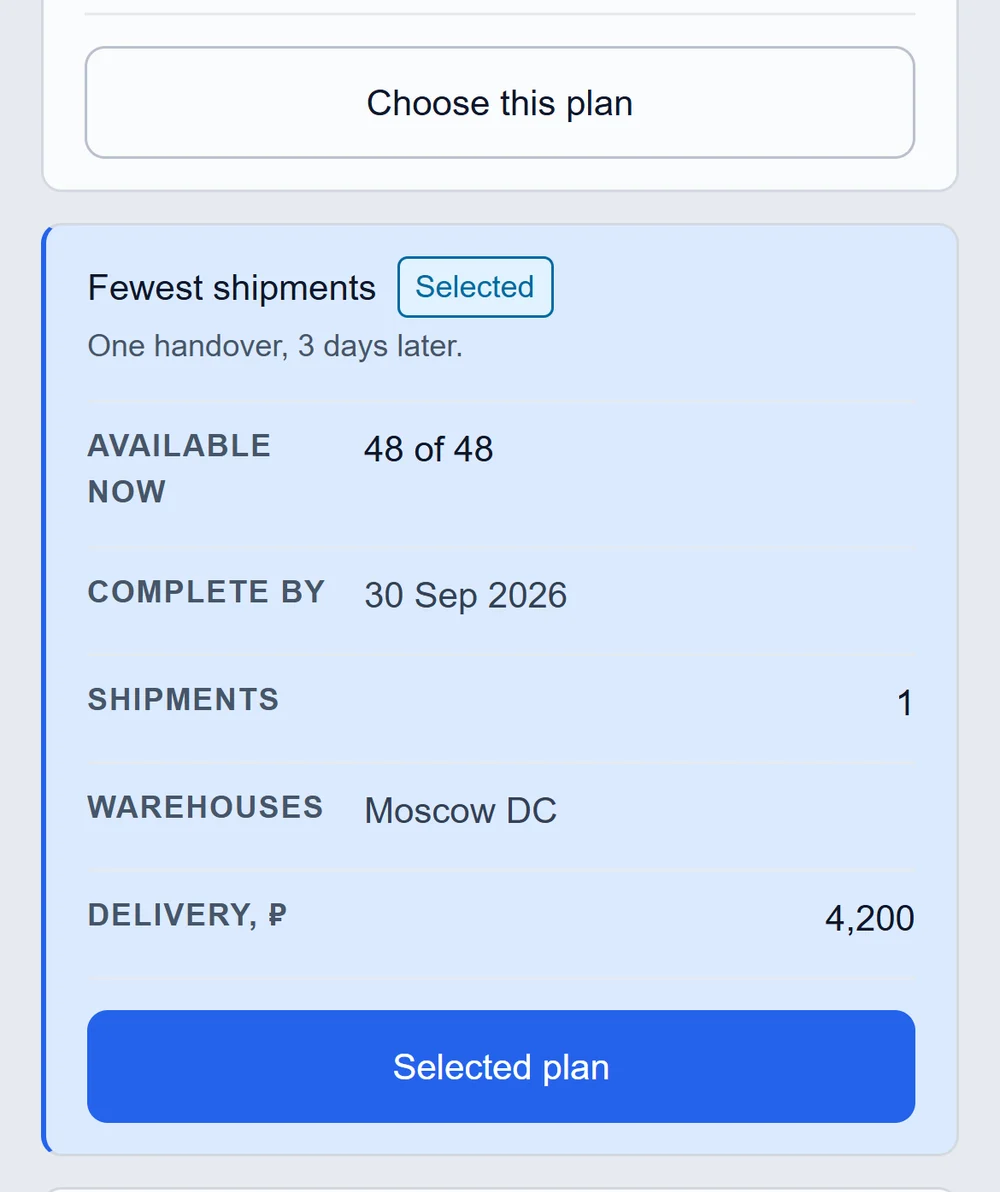
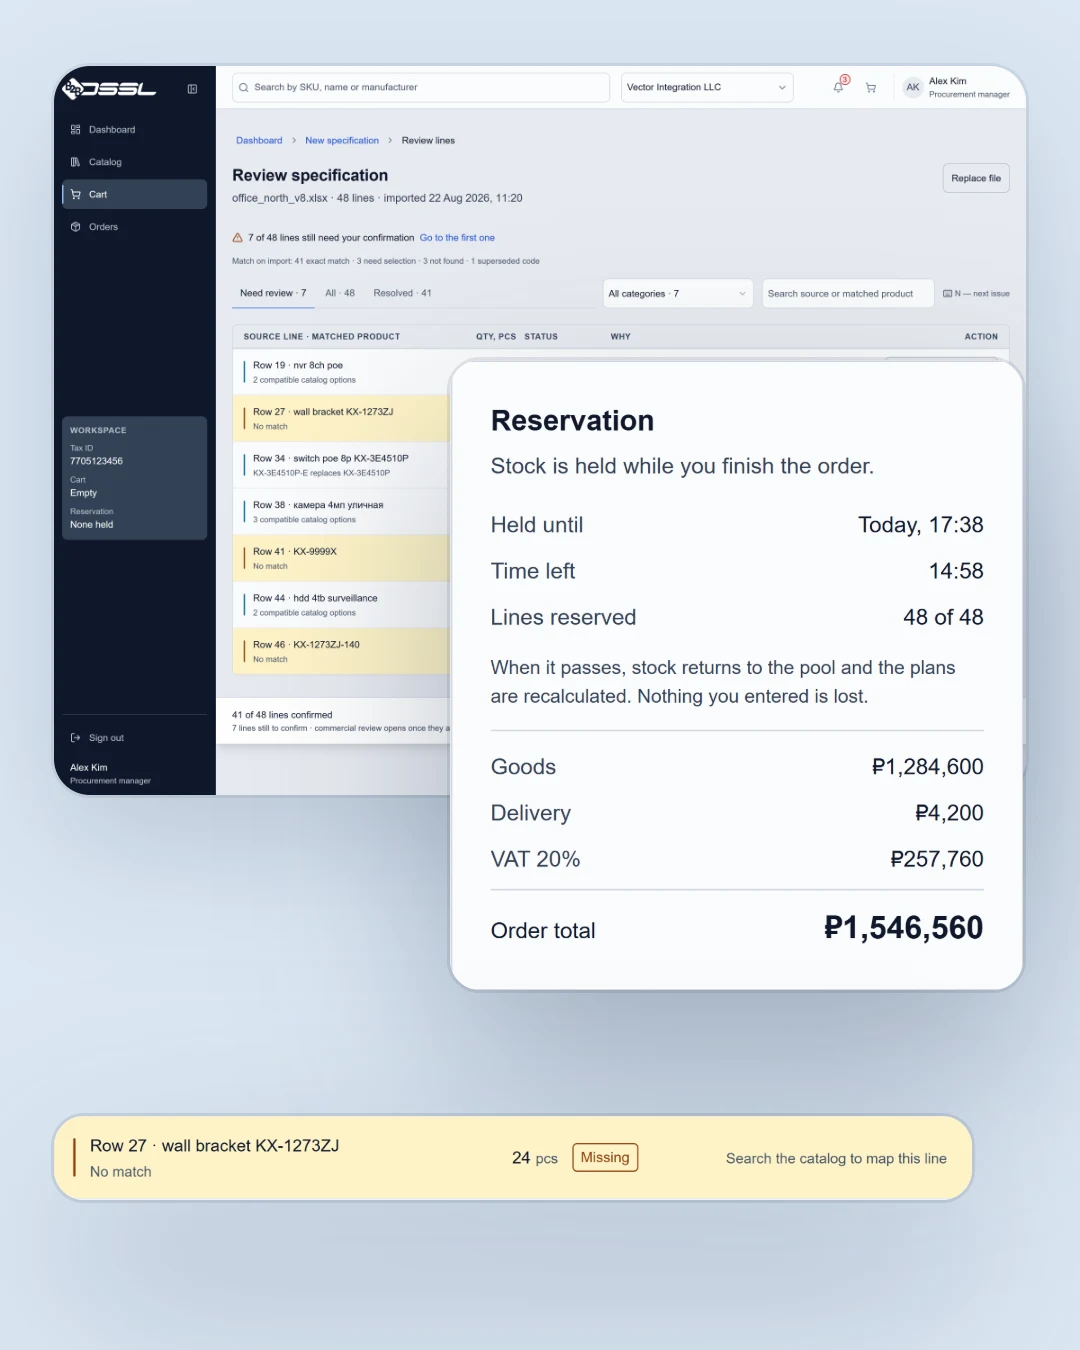
feat(home): featured covers show the product, with key elements lifted
The single-fragment covers read as dull: Agent Ops showed one card of text
and two buttons, nothing of the product or its scale. Each featured cover is
now the whole product screen as ground with one or two key elements lifted
over it at readable size: Agent Ops — total exposure and the top reason
cluster over the review queue; DSSL — the missing specification line and the
reservation total over the review; Learn — the learning path card and a task
resource over the field guide. Separate 4:5 composition on phones, EN and RU,
clips measured per locale so no text is cut.

Sources: scripts/shoot-cover-sources.mjs (3x). Composition:
scripts/build-home-covers.mjs. Replaces scripts/shoot-home-covers.mjs.

diff --git a/src/copy/case-visuals.ts b/src/copy/case-visuals.ts
@@ -7,6 +7,8 @@ export interface Artwork {
   mobile?: string;
   /** One product moment centred on the canvas, instead of a layered composition. */
   moment?: boolean;
+  /** A finished composition (scripts/build-home-covers.mjs) that fills the canvas. */
+  composed?: boolean;
   alt: string;
   caption?: string;
 }
@@ -101,13 +103,15 @@ export function getCaseVisuals(slug: string, locale: Locale = 'en') {
   const copy = entry[locale];
   return {
     slug: key,
-    // Every cover is one product moment at a readable size; the featured
-    // three carry a separate phone crop (scripts/shoot-home-covers.mjs,
-    // scripts/build-secondary-covers.mjs).
+    // The featured three are finished compositions — the whole screen as
+    // ground, key elements lifted over it (scripts/build-home-covers.mjs).
+    // Vet and Pawly previews are one product moment each
+    // (scripts/build-secondary-covers.mjs).
     cover: {
       images: entry.cover.map((file) => `${root}/${file}`),
       mobile: 'mobile' in entry ? `${root}/${entry.mobile}` : undefined,
-      moment: true,
+      moment: !('mobile' in entry),
+      composed: 'mobile' in entry,
       alt: copy.cover,
     } satisfies Artwork,
     hero: {

diff --git a/ds/foundation.md b/ds/foundation.md
@@ -1,6 +1,6 @@
 # Foundation — Site-portfolio
 
-**Обложки, 2026-09-09.** Локальные поверхности изображений: `surface-cover-agent` → graphite-800 (#253332), `surface-cover-portal` → blue-100 (#DCE7F3), `surface-cover-learn` → navy-800 (#243C56), `surface-cover-vet` → sage-100 (#E0EAE4), `surface-cover-pawly` → sand-100 (#EAE2D8). Это фон реальных скриншотов, не интерактивные акценты. Текст поверх цветных холстов не ставится. `ratio-cover` → 16/9, `ratio-cover-mobile` → 4/3. **25.09.2026:** `ratio-cover-moment-mobile` → 4/5 — обложка главного кейса на телефоне, где в карточке один фрагмент продукта в мобильной вёрстке; в 4/3 он не помещается читаемым. `elevation-artwork` → shadow-lg отделяет видимые пересекающиеся фрагменты UI. Контраст подписей определяется существующими text-default/text-meta на белом. Геометрия — `screens/case-presentation.md`.
+**Обложки, 2026-09-09.** Локальные поверхности изображений: `surface-cover-agent` → graphite-800 (#253332), `surface-cover-portal` → blue-100 (#DCE7F3), `surface-cover-learn` → navy-800 (#243C56), `surface-cover-vet` → sage-100 (#E0EAE4), `surface-cover-pawly` → sand-100 (#EAE2D8). Это фон реальных скриншотов, не интерактивные акценты. Текст поверх цветных холстов не ставится. `ratio-cover` → 16/9, `ratio-cover-mobile` → 4/3. **25.09.2026:** `ratio-cover-moment-mobile` → 4/5 — обложка главного кейса на телефоне: экран фоном и вынесенные элементы стопкой; в 4/3 они не помещаются читаемыми. `elevation-artwork` → shadow-lg отделяет видимые пересекающиеся фрагменты UI. Контраст подписей определяется существующими text-default/text-meta на белом. Геометрия — `screens/case-presentation.md`.
 
 **Бриф:** сдержанное editorial-портфолио продуктового дизайнера, web desktop+tablet+mobile, en с каркасом под ru, характер через типографику и движение, не через декор.
 **Статус:** принят 2026-08-24. Исполняемый носитель — `ds/tokens.css` и `ds/motion.js`; этот файл держит обоснования решений. Figma в проекте не используется.
